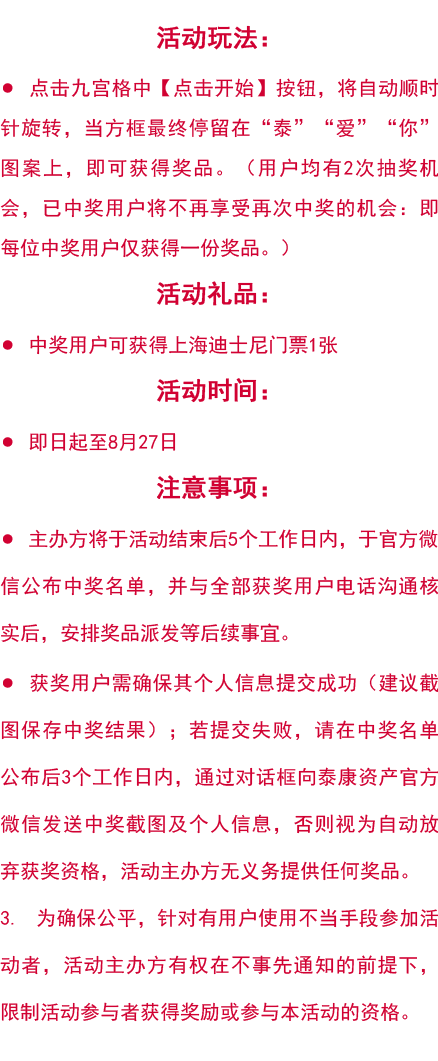
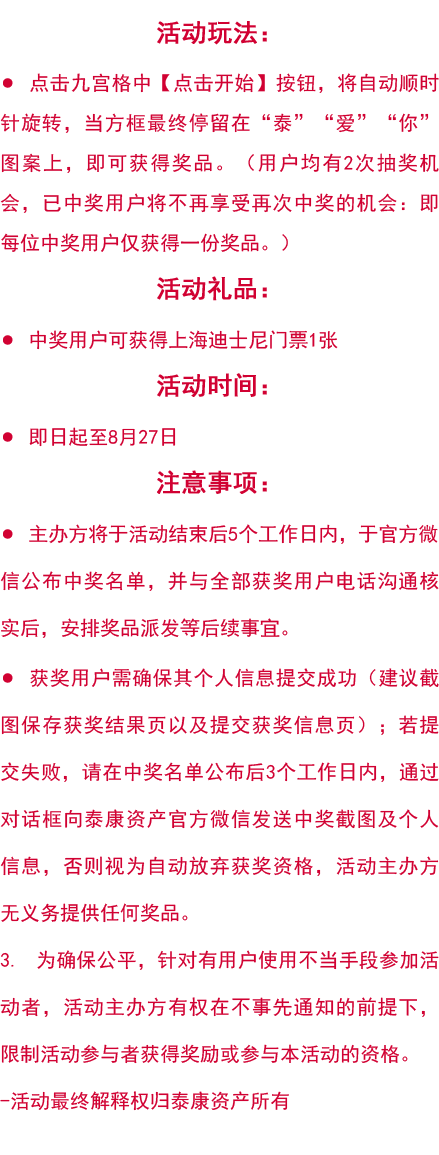
活动规则图片替换

Changed region(s): [[0.0, 0.0, 1.0, 0.9642], [0.0, 0.3732, 0.0297, 0.4665], [0.0, 0.2799, 0.0297, 0.3421]]

diff --git a/resources/views/index.blade.php b/resources/views/index.blade.php
@@ -17,7 +17,7 @@
 <div id="GZ_layer_13" style=" left: 0px; top: 0px;  "><img style="width: 640px; height: 1038px;" src="/assets/images/GZ_layer_13.png"/></div>
 <div id="GZ_DCBJ" style=" left: 63px; top: 114px;  "><img style="width: 529px; height: 809px;" src="/assets/images/GZ_DCBJ.png"/></div>
 <div id="GZ_WenZi" style="width: 460px; height: 766px;  left: 106px; top: 143px; ">
-<img id="myScrollbar" style="width: 438px; height: 1061px; " src='/assets/images/GZ.png'/>
+	<img id="myScrollbar" style="width: 439px; height: 1155px; " src='/assets/images/GZ.png'/>
 </div>
 <div id="GZ_btnX" style=" left: 557px; top: 88px;  "><img style="width: 60px; height: 60px;" src="/assets/images/GZ_btnX.png"/></div>
 <div id="YWL_layer_13" style=" left: 0px; top: 0px;  "><img style="width: 640px; height: 1038px;" src="/assets/images/YWL_layer_13.png"/></div>
